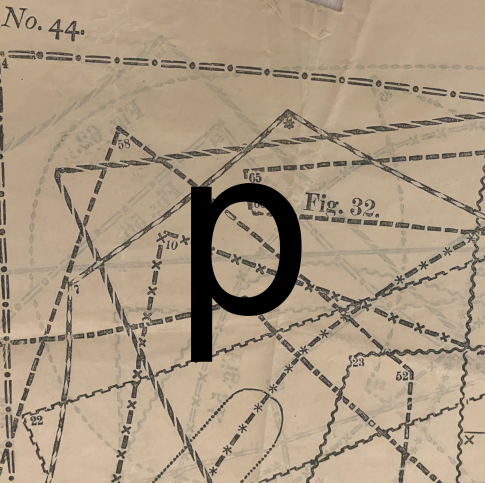
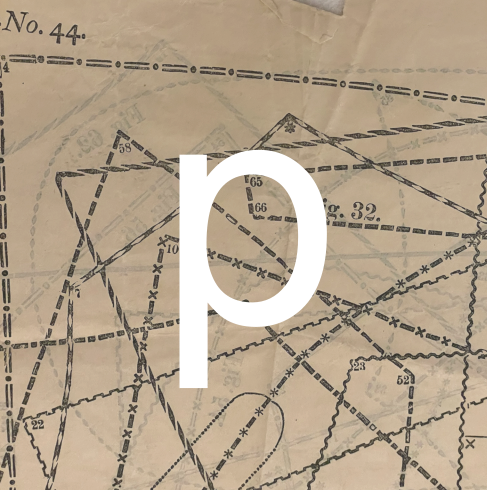
update

diff --git a/_posts/2026-06-12-update.md b/_posts/2026-06-12-update.md
@@ -3,8 +3,105 @@ layout: post
 title: Process Update - 12 June 2026
 ---
 
-Next you can update your site name, avatar and other options using the _config.yml file in the root of your repository (shown below).
+# Data Types / What is a pattern?
 
-![_config.yml]({{ site.baseurl }}/images/config.png)
+We say that patterns encode garments, but this does not mean that there is a straighforward correspondence<sup>a bijective map</sup> between one garment and one pattern. A single pattern often provides instructions for making multiple garments. But it's not enough to consider a one-to-many map from patterns to garments because the archives we work with often contain duplicates of each pattern. This might not be a problem if each copy were in perfect condition so that we could treat them all as exchangeable, but because each pattern is worn or cut or folded in a different way, and because our scanning methods are imperfect, we have to think about each physical pattern as a different object. So, a single pattern can encode multiple garments, and a single garment may be represented multiple times in the archive. To address these problems, we spent some time defining our data types. We think these types are more interesting than just an artifact of our code.
 
-The easiest way to make your first post is to edit this one. Go into /_posts/ and update the Hello World markdown file. For more instructions head over to the [Jekyll Now repository](https://github.com/barryclark/jekyll-now) on GitHub.
+## Archival World
+
+In the *archival world*, we have objects that are attached to physical things in the real world, either at the [Commercial Pattern Archive]{https://copa.apps.uri.edu} (CoPA) or in our scanning set-ups.
+
+### `Pattern`s
+
+`Pattern` objects are the physical patterns that are held by CoPA. CoPA has 61,000 patterns, each of which lives in in a file cabinet in the special collections of the University of Rhode Island in Kingston, RI.
+
+![pattern grid]({{ site.baseurl }}/images/2026-06-12-update/pattern_grid.png)
+
+A `Pattern` consists of an envelope with the manufacturer and an ID number, an illustration of the assembled garments the pattern describes, tissue paper sheets with full size pattern panels printed on it, extensive and variable annotations on the panels, textual assembly instructions, miniature diagrams of the pattern panels, and detailed sewing tips. Here's a collage of what some of this information looks like.
+
+![pattern collage]({{ site.baseurl }}/images/2026-06-12-update/pattern_collage.png)
+
+`Patterns` can also include other, highly heterogeneous data, like the following invitation to write to Meg Carter on Park Avenue for sewing tips.
+
+![sew along]({{ site.baseurl }}/images/2026-06-12-update/sew_along.png)
+
+### `Scan`s
+
+A `Scan` object is the set of images we produce when we scan a pattern. Each image is depicts pattern pieces, instruction sheets, or pattern covers. An image might contain multiple of these components, which happens when we image multiple pieces of paper at the same time for efficiency. An example of a `Scan` is below (but a full scan would also include images of things like the instructions).
+
+![scan sheets]({{ site.baseurl }}/images/2026-06-12-update/scan_sheets.png)
+
+Each `Scan` corresponds to a unique `Pattern`. The same `Pattern` could have multiple `Scan`s, for example if we wanted to re-image the same pattern to improve image quality.
+
+## Digital World
+
+In the *digital world*, objects are mathematical representations of the things we extract from our images of the objects in the archival world. Digital objects here come from objects in the archival world, but they are no longer attached to specific archival objects. Ideally, they are abstracted representations of the information that the archival objects were originally trying to encode.
+
+### `Panel`s
+
+A `Panel` is an individual pattern panel, cleaned and extracted from the `Scan` that depicts it. Importantly, a `Panel` is no longer attached to the specific image it came from. It is stored as a vector graphic showing the edges of the panel. The image below shows a `Panel`, rendered on top of the `Scan` image it came from.
+
+![panel example]({{ site.baseurl }}/images/2026-06-12-update/panel_example.png)
+
+`Panel`s can also contain annotations, which can be in the form of text or markings. These annotations can either be associated with a specific line or edge on the panel, or with the panel in general.
+
+### Other things in the digital world
+
+We will need to extract and represent other digital objects. In particular, we will need to figure out which panels go into each garment, and how they fit together. For example, diagrams like this of the panels that go into a specific garment will be helpful.
+
+![minimap]({{ site.baseurl }}/images/2026-06-12-update/minimap.png)
+
+Textual instructions will also help us in determining how panels fit together to form garments (just like they do for people sewing the garments at home), and we will need to extract and represent instructions in the digital world too.
+
+## Garment World
+
+In the *garment world*, we assemble the objects in the digital world into the garments that we were always trying to represent. To illustrate the difference between the digital world and the garment world, we emphasize that the challenge in the digital world is only in accurately extracting information from the objects in the archival world. The challenge in the garment world is in combining the information from the digital world to accurately build a garment. Nowhere in the archival world is a garment directly represented, so this is a distinct challenge from simply extracting information.
+
+### `Garment`s
+
+A `Garment` is a list of the `Panel`s that are used in a garment, as well as correspondences between each panel edge that is sewn together to form the garment. Identifying the `Panel`s that are part of a `Garment` and the edge correspondences is a technical step we have not solved yet, but we describe our work on it below!
+
+The garment world is the end of the pipeline for us. Once we have a list of panels that go into a garment and a list of edges that correspond to each other, we can upload the panels and these correspondences to a rendering application like Clo to show the garment.
+
+# Technics
+
+Separately from the problem of defining types and the architecture of our pipeline is the problem of actually moving from type to type. Abstracting these moves in this way makes our work modular; if someone on our team wants to work on better panel extraction, they can write new code to do that and swap it in to the larger process without rewriting anything else. In this side, we describe some progress on the technical processes of moving between our data types.
+
+## Scanning
+
+We have two set-ups for scanning. The overhead camera set-up consists of a mirrorless digital camera mounted on a pole that photographs pattern pieces lying on the ground underneath a clear acrylic slide. 
+
+![camera]({{ site.baseurl }}/images/2026-06-12-update/camera.png)
+
+The second set-up is a roller scanner designed for imaging large flat documents. 
+
+<video src="https://raw.githubusercontent.com/pattern-magic/pattern-magic.github.io/master/images/2026-06-12-update/roller.MOV"></video>
+
+We've found that it is important to pass the pattern through the scanner in a plastic sleeve to prevent the rollers from wrinkling the delicate tissue paper.
+
+![wrinkles]({{ site.baseurl }}/images/2026-06-12-update/wrinkles.png)
+
+So far, it appears that both scanning methods produce images of high enough quality that we can extract the information we need to populate the digital world. As we work towards scanning hundreds or thousands of patterns, we are considering which scanning methods are most time efficient and easy to execute. It would also be exciting to develop scanning methods that people at home can emulate with few additional supplies, allowing people to digitize their own pattern collections.
+
+## Panel Extraction
+
+Using basic image processing techniques, we are processing `Scan` images and estimating the shape of the `Panel`s in the image. We begin by cleaning the raw images to remove background and sharpen lines. Then we identify the closed shapes that represent panels. Finally, we convert these shapes into vectorized representations of the lines on the edges of the panels.
+
+![panel extraction]({{ site.baseurl }}/images/2026-06-12-update/panel_extraction.png)
+
+A challenge in forming the vectorized line representation is identifying corners where edges meet, and distinguishing those from bends in the same edge. In principle, we can handle misidentifications of the corners because the edge correspondences can be many-to-many (so, if an edge is erroneously split into two lines, both of those lines can simply have the same correspondences). But this does make the edge correspondence problem harder, so we are working on the vectorization approach to accurately separate the sides that our human eyes can understand as different edges.
+
+We are also working on identifying textual annotations on the panel. We have found a rich literature in the world of map reading. We are trying to use [MapReader]{https://joss.theoj.org/papers/10.21105/joss.06434} to find text on our panels.
+
+![mapreader]({{ site.baseurl }}/images/2026-06-12-update/mapreader.png)
+
+The text identification is far from perfect, but we are hoping to keep tuning it to identify more textual annotations. We also hope MapReader might be useful for things other than text identification because the central problem in reading maps -- extracting lines -- is similar to the problem of reading patterns.
+
+## Edge Correspondences
+
+Our major unsolved technical challenge is how to identify which edges are stitched together to form each garment. We are drawing on various previous contributions to do this.
+
+A 2013 [paper]{https://www.floraine.org/research/clopat/} of Floraine Berthouzoz, Akash Garg, Danny Kaufman, Eitan Grinspun, and Maneesh Agrawala uses heuristics including edge lengths, edge curvatures, panel names, and annotations to estimate the probability that a pair of edges are stitched together. To replicate their method, we first will need to improve our method of reading panel names and line annotations. 
+
+More recently, [AutoSew]{https://arxiv.org/abs/2602.22052} by Pablo Ríos-Navarro, Elena Garces, and Jorge Lopez-Moreno provides a big-model approach to finding edge correspondences. They train a neural network to form these correspondences, but a major challenge to using their methods in our setting is the messiness of our data. AutoSew is trained to work on synthetic patterns with perfectly clean representations of panels and edges. In contrast, we know that our reconstructed `Panel`s are messy. On the other hand, we also have access to more information in the form of annotations and instructions. We are thinking of ways to adapting methods developed in AutoSew to our setting, both to handle our messier data and to leverage our additional information.
+